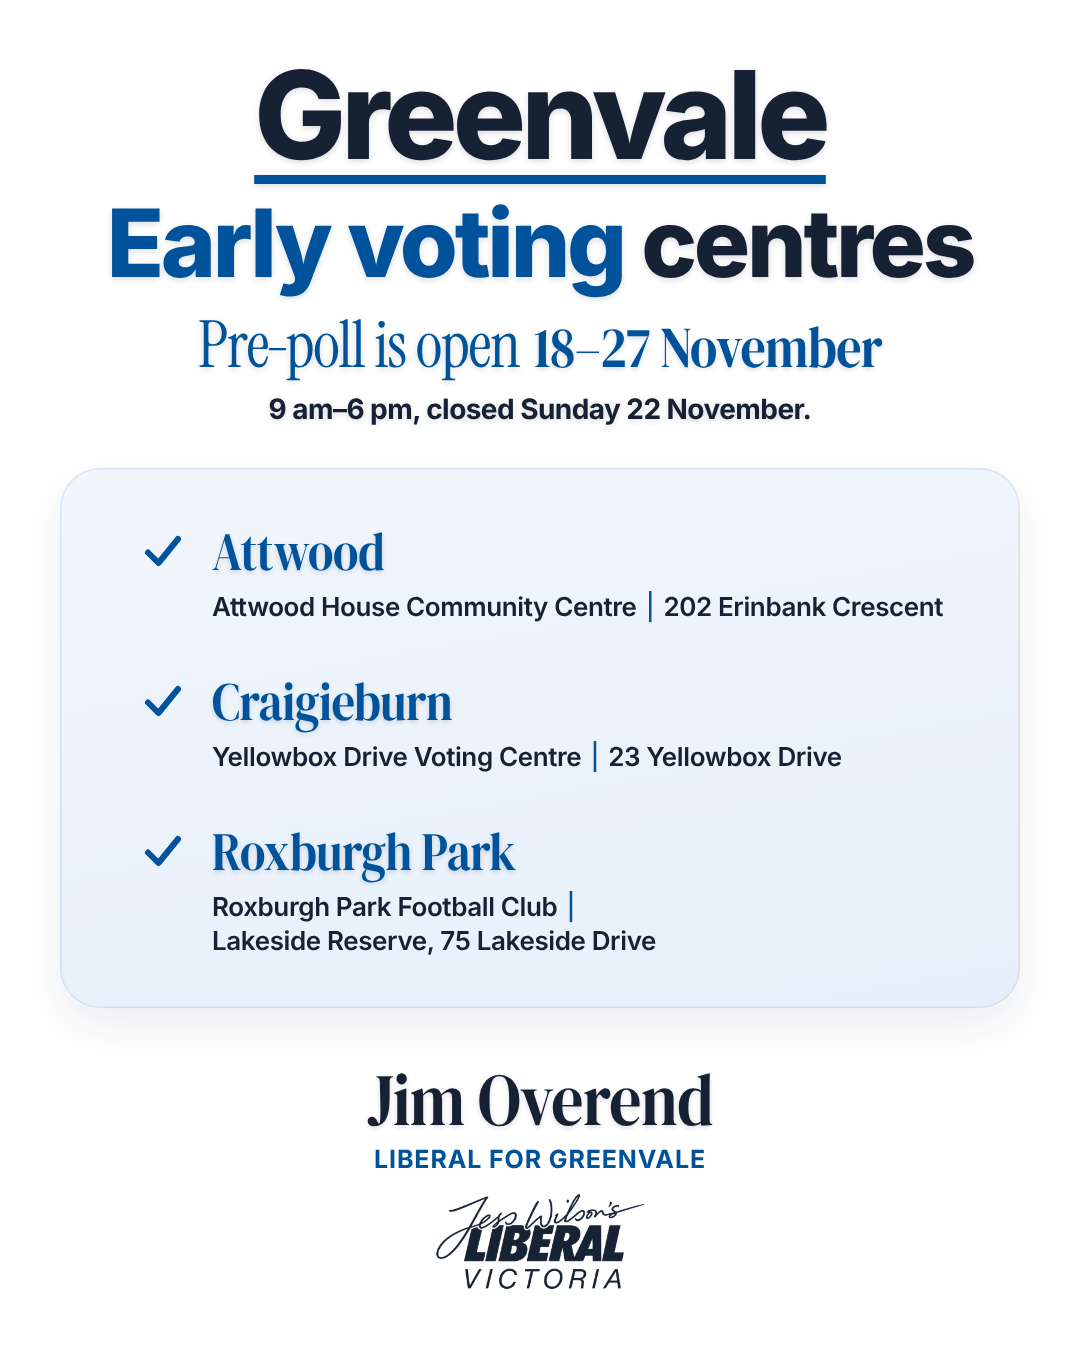
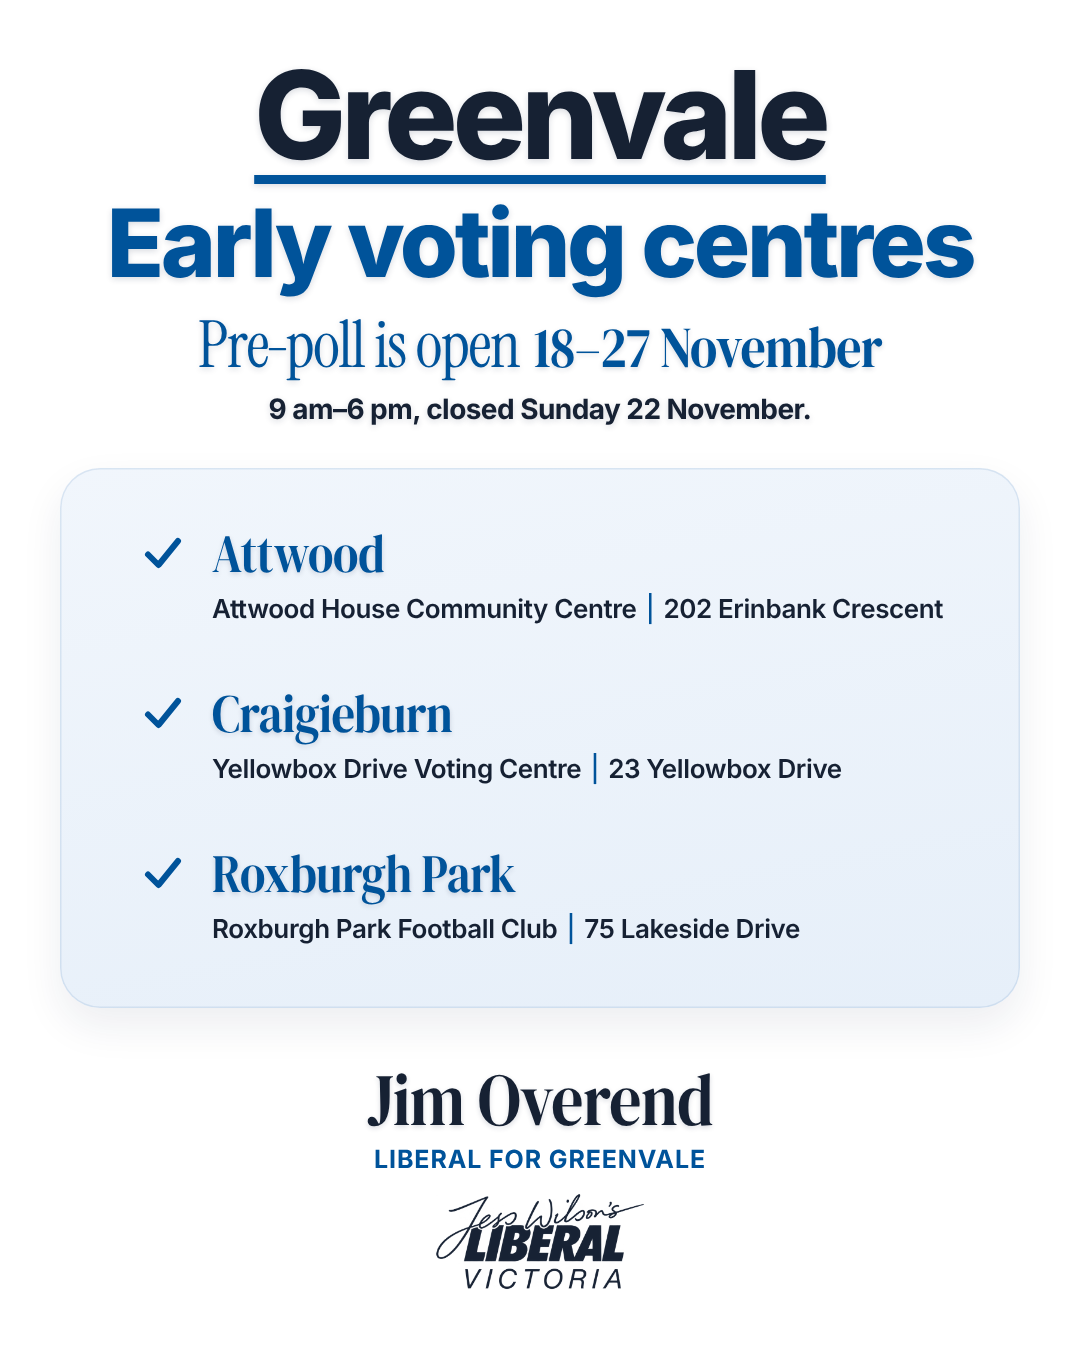
Early voting panel card: one-line Roxburgh Park, blue heading
Show the Roxburgh Park centre as "Roxburgh Park Football Club |
75 Lakeside Drive" on one line like the others, re-space the three
centres evenly, and set the whole "Early voting centres" line in blue.

Claude-Session: https://claude.ai/code/session_01MT6wivusBEagFnhed7SAun

diff --git a/designs/greenvale-early-voting/source/early-voting-panel.html b/designs/greenvale-early-voting/source/early-voting-panel.html
@@ -52,15 +52,15 @@ h1 .gv{display:inline-block;font-size:1.3em;letter-spacing:-.04em;margin-bottom:
 <script>
 const P = Object.assign({
   // Defaults = the published layout. Override any key via ?p={"key":value} (see render.js).
-  head:'<span class="gv">Greenvale</span><br><span class="acc">Early voting</span> centres', hTop:54, hSize:94,
+  head:'<span class="gv">Greenvale</span><br><span class="acc">Early voting centres</span>', hTop:54, hSize:94,
   dates:'<span class="lt">Pre<span style="margin:0 -.07em">-</span>poll is open</span> <span class="bd">18–27 November</span>', dTop:310, dSize:58,
   hours:'9 am–6 pm, closed Sunday 22 November.', hrTop:392, hrSize:28,
   panel:[60,468,960,540],                  // left, top, width, height
   // venues: [suburb, venue, address, left, top, width] — one centred column; long lines wrap after the bar
   venues:[
-    ['Attwood','Attwood House Community Centre','202 Erinbank Crescent',140,524,820],
-    ['Craigieburn','Yellowbox Drive Voting Centre','23 Yellowbox Drive',140,674,820],
-    ['Roxburgh Park','Roxburgh Park Football Club','Lakeside Reserve, 75 Lakeside Drive',140,824,820],
+    ['Attwood','Attwood House Community Centre','202 Erinbank Crescent',140,526,820],
+    ['Craigieburn','Yellowbox Drive Voting Centre','23 Yellowbox Drive',140,686,820],
+    ['Roxburgh Park','Roxburgh Park Football Club','75 Lakeside Drive',140,846,820],
   ],
   subSize:54, detSize:26,
   footerTop:1062, footerGap:18,

diff --git a/designs/greenvale-early-voting/README.md b/designs/greenvale-early-voting/README.md
@@ -6,7 +6,7 @@ numbered pins, a matching numbered venue list, and the Jess Wilson's Liberal Vic
 
 - `greenvale-early-voting-panel.png` / `@2x` — **latest: 1080×1350 card, "Early Voting centres" reference
   layout in the light style, symmetrical (no candidate photo)**: heading "Greenvale / *Early voting* centres"
-  (Inter ExtraBold; "Greenvale" 1.3× larger with a thick blue underline; "Early voting" in blue), serif dates line, pale-blue rounded panel with blue ticks, suburb
+  (Inter ExtraBold; "Greenvale" 1.3× larger with a thick blue underline; "Early voting centres" in blue), serif dates line, pale-blue rounded panel with blue ticks, suburb
   in condensed serif and "venue | address" in navy sans in one centred column, and a larger centred
   footer stacking "Jim Overend / LIBERAL FOR GREENVALE" above the navy Liberal Victoria logo. Source: `source/early-voting-panel.html`
   (`node render.js '{}' early-voting-panel.html greenvale-early-voting-panel`).
@@ -31,6 +31,7 @@ numbered pins, a matching numbered venue list, and the Jess Wilson's Liberal Vic
 1. Attwood House Community Centre — 202 Erinbank Crescent, Attwood
 2. Yellowbox Drive Voting Centre — 23 Yellowbox Drive, Craigieburn
 3. Roxburgh Park Football Club — Lakeside Reserve, 75 Lakeside Drive, Roxburgh Park
+   (the panel card shows this as "Roxburgh Park Football Club | 75 Lakeside Drive", per the campaign)
 
 ## Editing / re-rendering
 
